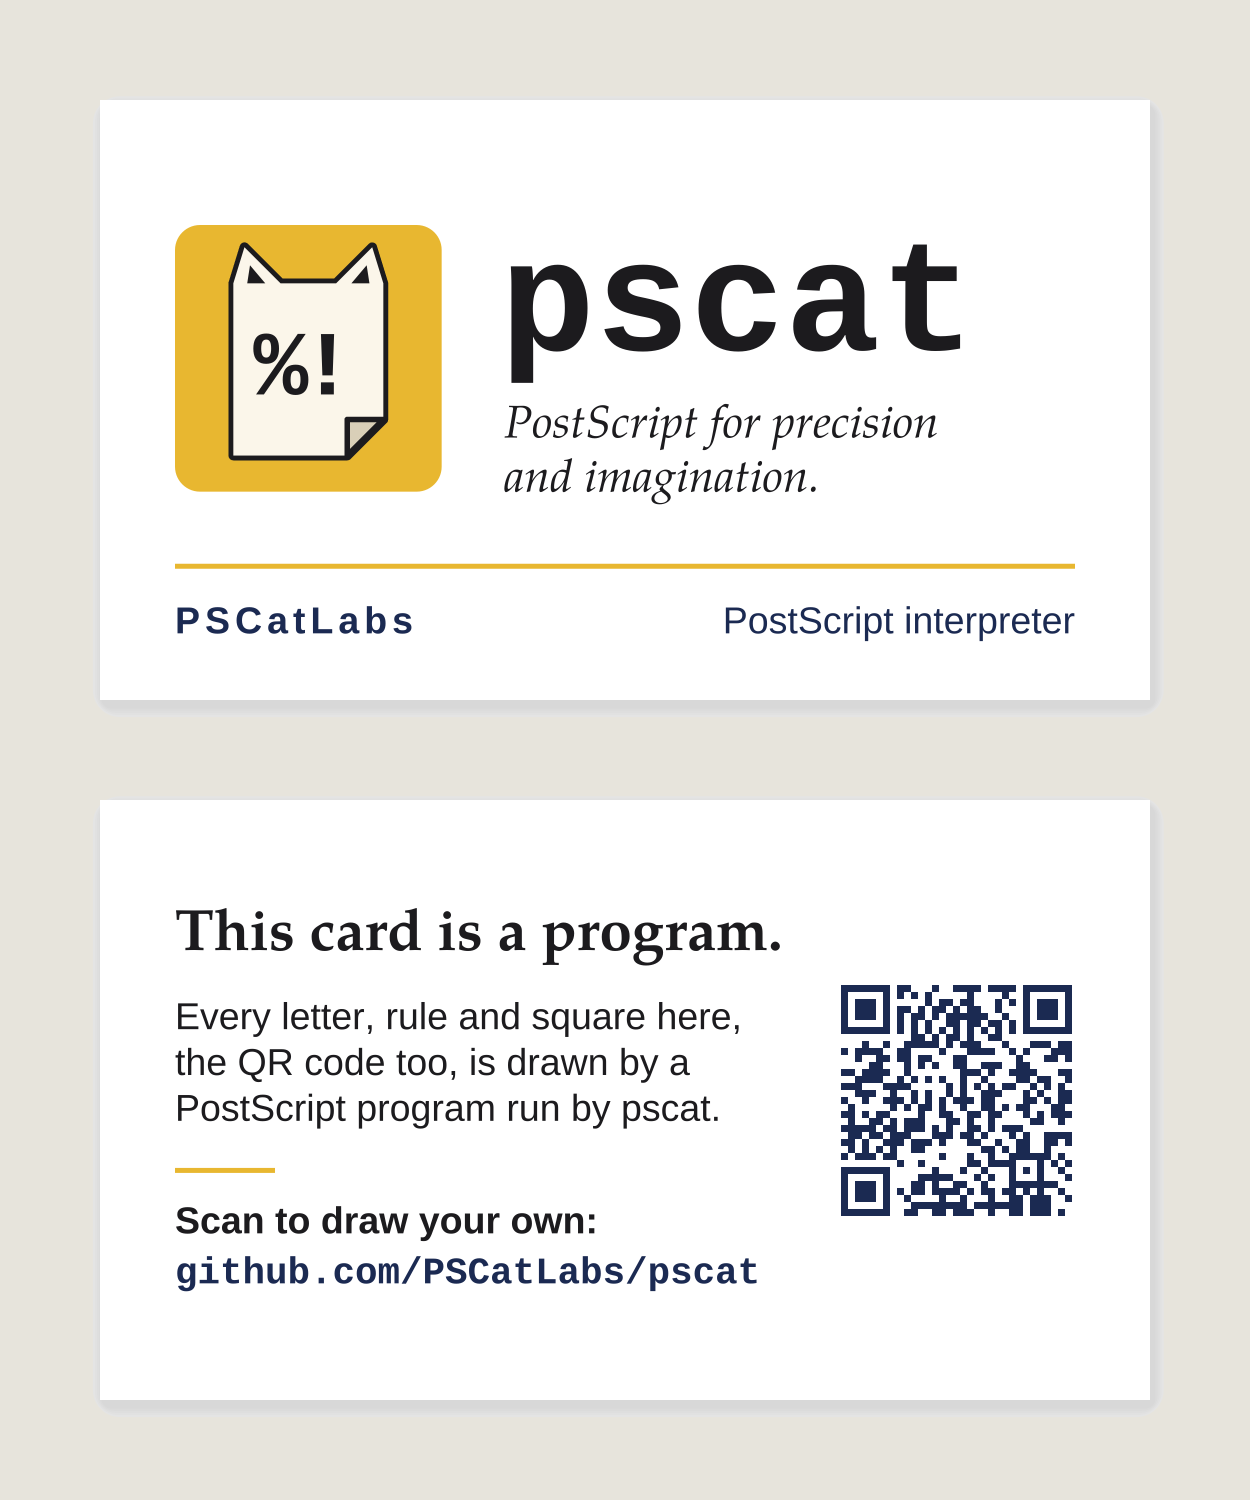
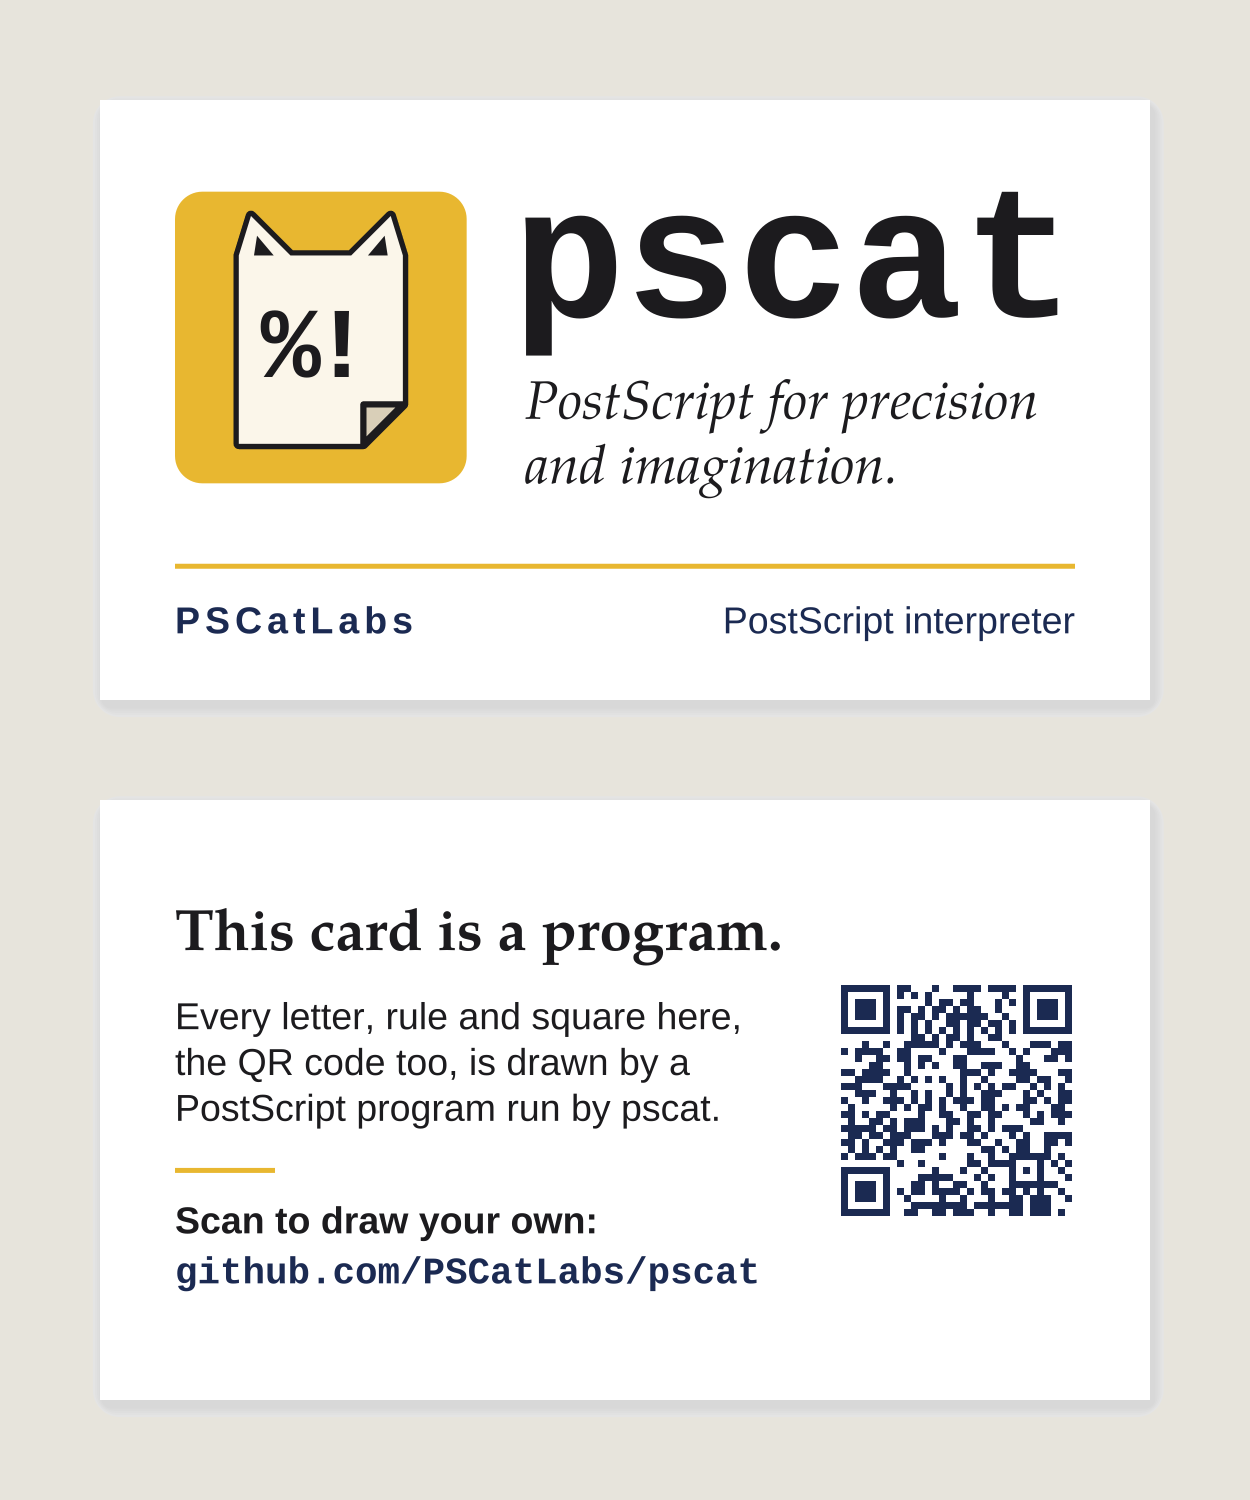
Card: white stock settled, front set as one lockup (#987)
Keep the card's paper unprinted and say so in the brief: a warm white
comes from the stock, since a tint needs a bleed or leaves an uneven
white frame, and would cut the QR's contrast. The front's tile, wordmark
and tagline now share top and bottom edges, and the wordmark's ink ends
at the rule's right end, filling the empty top right. Back unchanged.

Claude-Session: https://claude.ai/code/session_016y8NtPS6AK2d3CuPVebfRe

Changed region(s): [[0.4056, 0.1227, 0.8424, 0.3373], [0.1248, 0.1227, 0.3744, 0.3373]]

diff --git a/notes/987-qr-card-polish.md b/notes/987-qr-card-polish.md
@@ -1,0 +1,39 @@
+# #987: business card polish, white stock and the front lockup
+
+Two refinements from the perceptual review of `gallery/pscat_card.ps` (#974,
+PR #979). Part of #966.
+
+**Stock: white wins.** The brief (`docs/dev/design/QR_CODE.md`, "Business
+card target") said "warm white" and also "white edges/no bleed". The card
+keeps the paper unprinted and the brief now says white. Printing a warm tint
+has two forms, and both are worse than choosing the stock:
+
+- a full tint needs a bleed and a printer's imposition, which the brief
+  avoids on purpose;
+- a tint held inside the 9 pt inset leaves a white frame, and a trim that
+  drifts by 1/32 in (normal for short runs) makes that frame visibly
+  uneven.
+
+A tint under the QR code would also lower its contrast. The cream used in
+the logo (0.984 0.965 0.918) has a luma near 246, so `tests/qr_card.rs`'s
+light-module check (255 within 4) would have to loosen, and the issue rules
+that out. Anyone who wants warmth prints on a natural or cream card; the
+header comment says so. The tests are unchanged.
+
+**Front: one lockup.** The first front set a 64 pt tile and a 38 pt wordmark
+whose top sat well below the tile's, and the wordmark ended at x 210 against
+a rule that runs to 234, so the top right read empty. The front now aligns
+three edges, measured from the faces' outlines (`charpath pathbbox`, in the
+source's comment):
+
+- the tile is 70 pt, at (18, 52);
+- Courier-Bold "pscat" at 45 pt from x 99: its ink runs from 102.1 (over the
+  tagline's first stroke) to 234, the rule's right end, and from baseline 92
+  the t tops out at 122, level with the tile's top;
+- the tagline is 13 pt Palatino Italic (was 11), its last baseline on the
+  tile's bottom edge.
+
+The block sits 22 pt under the top trim and 19 pt above the rule. The back
+is byte-identical (300 dpi PNG compared), so the QR is untouched.
+
+**Still.** Regenerated with the header's `/CardProof` command at 300 dpi.

diff --git a/docs/dev/design/QR_CODE.md b/docs/dev/design/QR_CODE.md
@@ -300,7 +300,7 @@ the gallery presentation: PDF can carry both sides; SVG/PNG need explicit side
 outputs plus a gallery proof. Each exported side must preserve physical units;
 PNG at 300 dpi is 1050×600 pixels and needs an explicit print-size recipe.
 
-Design direction: restrained ink/navy, warm white, a typographic PSCat front
+Design direction: restrained ink/navy on white, a typographic PSCat front
 and a clear invitation to explore programmable graphics on the reverse.
 Aim for a >=0.8 inch high-contrast QR including its quiet zone, exact size
 checked after version selection; keep text >=9 pt and critical art >=9 pt
@@ -315,6 +315,15 @@ draws the gallery still, both sides on one sheet. The still is rendered at
 300 dpi so the 1.68 pt (7 px) modules stay on whole pixels. The symbol is
 level H, version 4, 0.96 in with its quiet zone, and nothing is printed
 within 9 pt of the trim. Checks: [verification](QR_CODE_TESTING.md#the-gallery-business-card-974).
+
+The brief first said "warm white" as well as "white edges/no bleed". #987
+settled it for white: the program leaves the paper unprinted, and a warm
+white comes from the stock (a natural or cream card), not from ink. A flat
+tint would need a bleed, or a tint held inside the 9 pt inset would leave a
+white frame that a slightly off trim makes visibly uneven, and a tint under
+the QR code would lower its contrast. #987 also made the front one lockup:
+the wordmark's ink tops out level with the logo tile and ends at the rule's
+right end, which fills the top right that the first layout left empty.
 
 ## Session infrastructure
 
